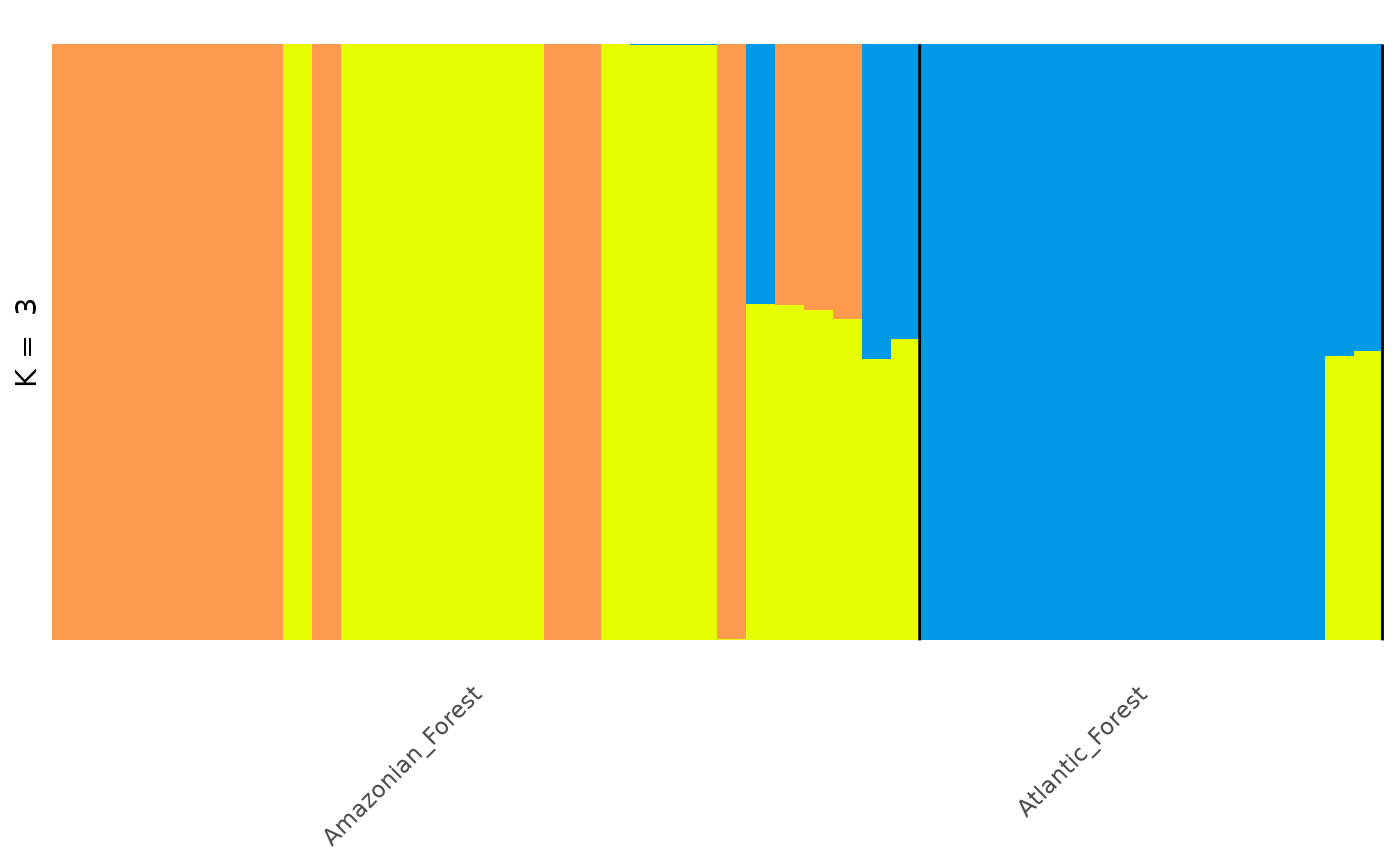
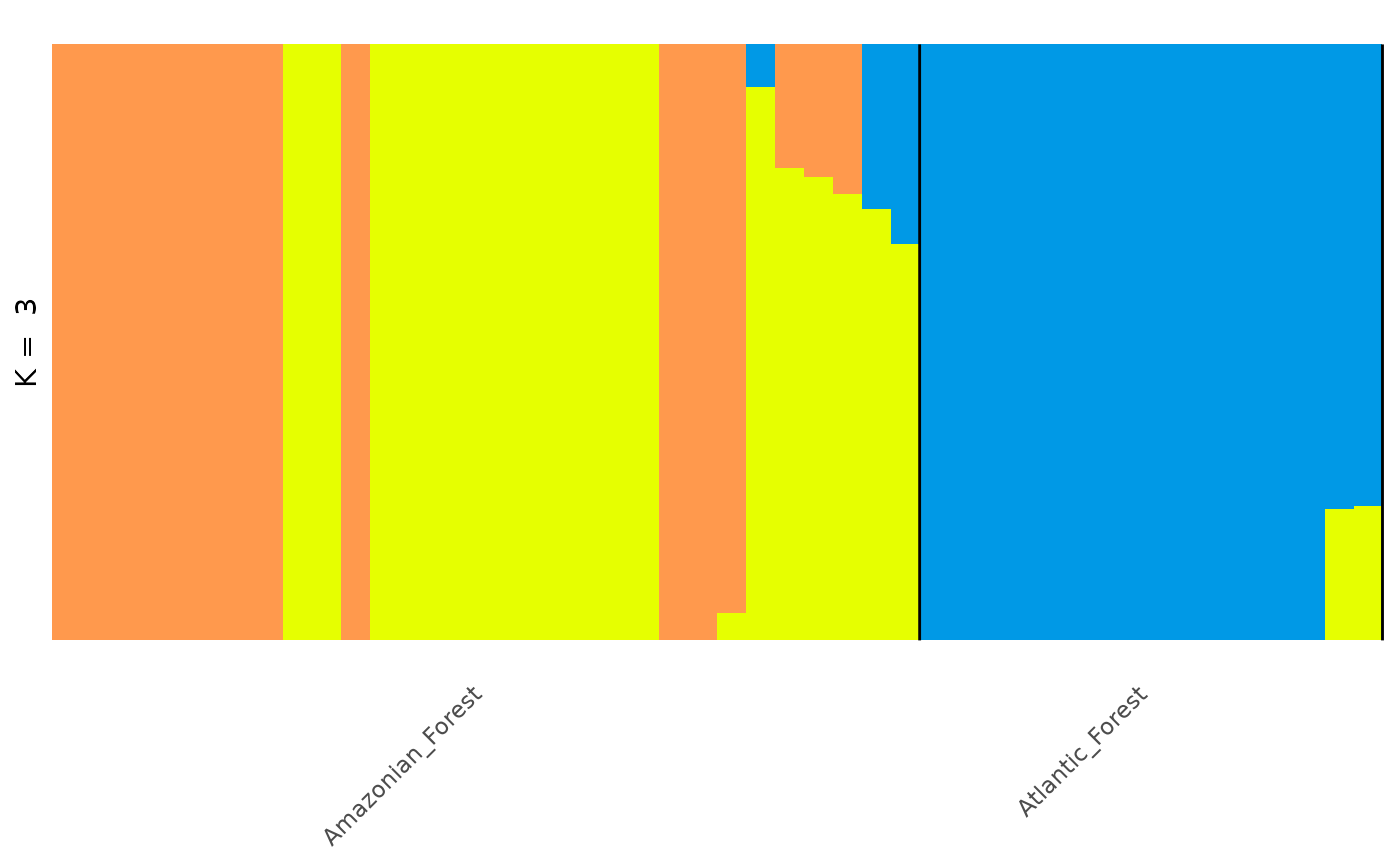
Deploying to gh-pages from @ EvolEcolGroup/tidygenclust@b76e63f80ebc70dfd8091103fc4832bc7fcdc668 🚀

diff --git a/articles/tidygenclust.html b/articles/tidygenclust.html
@@ -32,7 +32,7 @@
       </button>
       <span class="navbar-brand">
         <a class="navbar-link" href="../index.html">tidygenclust</a>
-        <span class="version label label-default" data-toggle="tooltip" data-placement="bottom" title="">0.1.2</span>
+        <span class="version label label-default" data-toggle="tooltip" data-placement="bottom" title="">0.1.3</span>
       </span>
     </div>
 
@@ -274,7 +274,7 @@ specify a value for the number of clusters K.</p>
 <div class="sourceCode" id="cb20"><pre class="downlit sourceCode r">
 <code class="sourceCode R"><span><span class="va">anole_res</span> <span class="op">&lt;-</span> <span class="va">anole_gt</span> <span class="op"><a href="../reference/pipe.html">%&gt;%</a></span> <span class="fu"><a href="../reference/gt_fastmixture.html">gt_fastmixture</a></span><span class="op">(</span>k <span class="op">=</span> <span class="fl">3</span><span class="op">)</span></span></code></pre></div>
 <pre><code><span><span class="co">## -------------------------------------------------</span></span>
-<span><span class="co">## fastmixture v1.2.0</span></span>
+<span><span class="co">## fastmixture v1.3.0</span></span>
 <span><span class="co">## C.G. Santander, A. Refoyo-Martinez and J. Meisner</span></span>
 <span><span class="co">## K=3, seed=42, batches=32, threads=1</span></span>
 <span><span class="co">## -------------------------------------------------</span></span>
@@ -283,30 +283,35 @@ specify a value for the number of clusters K.</p>
 <span><span class="co">## WARNING: Few SNPs per mini-batch!</span></span>
 <span><span class="co">## </span></span>
 <span><span class="co">## Random initialization.</span></span>
-<span><span class="co">## Initial log-like: -220422.9</span></span>
-<span><span class="co">## Performed priming iteration. (0.0s)</span></span>
+<span><span class="co">## Initial log-like: -216353.9</span></span>
+<span><span class="co">## Performed priming iteration. (0.1s)</span></span>
 <span><span class="co">## </span></span>
 <span><span class="co">## Estimating Q and P using mini-batch EM.</span></span>
 <span><span class="co">## Using 32 mini-batches.</span></span>
-<span><span class="co">## (5)  Log-like: -65244.8  (0.0s)</span></span>
-<span><span class="co">## (10) Log-like: -59883.7  (0.0s)</span></span>
-<span><span class="co">## (15) Log-like: -60094.3  (0.0s)</span></span>
+<span><span class="co">## (5)  Log-like: -58478.0  (0.0s)</span></span>
+<span><span class="co">## (10) Log-like: -58453.1  (0.0s)</span></span>
+<span><span class="co">## (15) Log-like: -58478.7  (0.0s)</span></span>
 <span><span class="co">## Halving mini-batches to 16.</span></span>
-<span><span class="co">## (20) Log-like: -59933.9  (0.0s)</span></span>
-<span><span class="co">## (25) Log-like: -59964.4  (0.0s)</span></span>
+<span><span class="co">## (20) Log-like: -58451.5  (0.0s)</span></span>
+<span><span class="co">## (25) Log-like: -58460.2  (0.0s)</span></span>
 <span><span class="co">## Halving mini-batches to 8.</span></span>
-<span><span class="co">## (30) Log-like: -60797.6  (0.0s)</span></span>
-<span><span class="co">## Turning on safety updates.</span></span>
-<span><span class="co">## (35) Log-like: -64272.0  (0.0s)</span></span>
+<span><span class="co">## (30) Log-like: -58443.3  (0.0s)</span></span>
+<span><span class="co">## (35) Log-like: -58438.9  (0.0s)</span></span>
+<span><span class="co">## (40) Log-like: -58448.1  (0.0s)</span></span>
 <span><span class="co">## Halving mini-batches to 4.</span></span>
-<span><span class="co">## (40) Log-like: -63085.8  (0.0s)</span></span>
-<span><span class="co">## (45) Log-like: -64353.6  (0.0s)</span></span>
+<span><span class="co">## (45) Log-like: -58438.1  (0.0s)</span></span>
+<span><span class="co">## (50) Log-like: -58439.1  (0.0s)</span></span>
 <span><span class="co">## Halving mini-batches to 2.</span></span>
-<span><span class="co">## (50) Log-like: -59957.8  (0.0s)</span></span>
-<span><span class="co">## (55) Log-like: -65708.6  (0.0s)</span></span>
+<span><span class="co">## (55) Log-like: -58437.7  (0.0s)</span></span>
+<span><span class="co">## (60) Log-like: -58437.7  (0.0s)</span></span>
 <span><span class="co">## Running standard updates.</span></span>
-<span><span class="co">## No improvement. Returning with best estimate!</span></span>
-<span><span class="co">## Final log-likelihood: -59883.7</span></span>
+<span><span class="co">## (65) Log-like: -58437.6  (0.0s)</span></span>
+<span><span class="co">## (70) Log-like: -58437.6  (0.0s)</span></span>
+<span><span class="co">## (75) Log-like: -58437.6  (0.0s)</span></span>
+<span><span class="co">## (80) Log-like: -58437.6  (0.0s)</span></span>
+<span><span class="co">## Converged!</span></span>
+<span><span class="co">## </span></span>
+<span><span class="co">## Final log-likelihood: -58437.6</span></span>
 <span><span class="co">## Total elapsed time: 0m0s</span></span></code></pre>
 <p>This will <em>very</em> quickly return a single Q matrix, for one
 specified K value. But, most likely we want to explore multiple values
@@ -362,24 +367,24 @@ of K = 4 like so:</p>
 <span>  <span class="fu"><a href="https://evolecolgroup.github.io/tidypopgen/reference/get_q_matrix.html" class="external-link">get_q_matrix</a></span><span class="op">(</span>k <span class="op">=</span> <span class="fl">4</span>, run <span class="op">=</span> <span class="fl">2</span><span class="op">)</span> <span class="op"><a href="../reference/pipe.html">%&gt;%</a></span></span>
 <span>  <span class="fu"><a href="https://rdrr.io/r/utils/head.html" class="external-link">head</a></span><span class="op">(</span><span class="op">)</span></span></code></pre></div>
 <pre><code><span><span class="co">##               .Q1          .Q2          .Q3          .Q4</span></span>
-<span><span class="co">## [1,] 2.115600e-05 2.813873e-05 6.108197e-05 9.998896e-01</span></span>
-<span><span class="co">## [2,] 1.834057e-05 2.645122e-05 5.326335e-05 9.999019e-01</span></span>
-<span><span class="co">## [3,] 5.074471e-01 4.925329e-01 9.999875e-06 9.999875e-06</span></span>
-<span><span class="co">## [4,] 9.999318e-01 4.818752e-05 1.000000e-05 1.000000e-05</span></span>
-<span><span class="co">## [5,] 5.051094e-01 4.948706e-01 9.999879e-06 9.999879e-06</span></span>
-<span><span class="co">## [6,] 1.000000e-05 1.000000e-05 9.999464e-01 3.360893e-05</span></span></code></pre>
+<span><span class="co">## [1,] 9.999949e-06 9.999949e-06 9.999700e-01 9.999949e-06</span></span>
+<span><span class="co">## [2,] 9.999935e-06 9.999935e-06 9.999700e-01 9.999935e-06</span></span>
+<span><span class="co">## [3,] 9.999899e-06 9.999899e-06 9.999899e-06 9.999700e-01</span></span>
+<span><span class="co">## [4,] 9.999855e-06 9.999855e-06 9.999855e-06 9.999700e-01</span></span>
+<span><span class="co">## [5,] 9.999902e-06 9.999902e-06 9.999902e-06 9.999700e-01</span></span>
+<span><span class="co">## [6,] 9.999700e-01 9.999873e-06 9.999873e-06 9.999873e-06</span></span></code></pre>
 <p>Or the P matrix of the first run of K = 3:</p>
 <div class="sourceCode" id="cb27"><pre class="downlit sourceCode r">
 <code class="sourceCode R"><span><span class="va">anole_res</span> <span class="op"><a href="../reference/pipe.html">%&gt;%</a></span></span>
 <span>  <span class="fu"><a href="https://evolecolgroup.github.io/tidypopgen/reference/get_p_matrix.html" class="external-link">get_p_matrix</a></span><span class="op">(</span>k <span class="op">=</span> <span class="fl">3</span>, run <span class="op">=</span> <span class="fl">1</span><span class="op">)</span> <span class="op"><a href="../reference/pipe.html">%&gt;%</a></span></span>
 <span>  <span class="fu"><a href="https://rdrr.io/r/utils/head.html" class="external-link">head</a></span><span class="op">(</span><span class="op">)</span></span></code></pre></div>
 <pre><code><span><span class="co">##           [,1]      [,2]  [,3]</span></span>
-<span><span class="co">## [1,] 0.4134744 0.0000100 1e-05</span></span>
-<span><span class="co">## [2,] 0.1700725 0.8064057 1e-05</span></span>
-<span><span class="co">## [3,] 0.0000100 0.8109002 1e-05</span></span>
-<span><span class="co">## [4,] 0.1812214 0.4957036 1e-05</span></span>
-<span><span class="co">## [5,] 0.3309743 0.0000100 1e-05</span></span>
-<span><span class="co">## [6,] 0.2258939 0.9999900 1e-05</span></span></code></pre>
+<span><span class="co">## [1,] 0.0000100 0.3920911 1e-05</span></span>
+<span><span class="co">## [2,] 0.8353825 0.1677636 1e-05</span></span>
+<span><span class="co">## [3,] 0.8399723 0.0000100 1e-05</span></span>
+<span><span class="co">## [4,] 0.4999375 0.1833640 1e-05</span></span>
+<span><span class="co">## [5,] 0.0000100 0.3321197 1e-05</span></span>
+<span><span class="co">## [6,] 0.9999900 0.2612219 1e-05</span></span></code></pre>
 <p>We can now compare the cross-validation scores for our range of K
 values 2-4, stored in the <code>cv</code> element of our
 <code>gt_admix</code> object, to help identify the most appropriate
@@ -424,16 +429,16 @@ use for the plot:</p>
 <pre><code><span><span class="co">## <span style="color: #949494;"># A tibble: 138 × 4</span></span></span>
 <span><span class="co">##    id         group            q     percentage</span></span>
 <span><span class="co">##    <span style="color: #949494; font-style: italic;">&lt;chr&gt;</span>      <span style="color: #949494; font-style: italic;">&lt;chr&gt;</span>            <span style="color: #949494; font-style: italic;">&lt;chr&gt;</span>      <span style="color: #949494; font-style: italic;">&lt;dbl&gt;</span></span></span>
-<span><span class="co">## <span style="color: #BCBCBC;"> 1</span> punc_BM288 Amazonian_Forest .Q1   1.000     </span></span>
-<span><span class="co">## <span style="color: #BCBCBC;"> 2</span> punc_BM288 Amazonian_Forest .Q2   0.000<span style="text-decoration: underline;">026</span>5 </span></span>
-<span><span class="co">## <span style="color: #BCBCBC;"> 3</span> punc_BM288 Amazonian_Forest .Q3   0.000<span style="text-decoration: underline;">067</span>5 </span></span>
-<span><span class="co">## <span style="color: #BCBCBC;"> 4</span> punc_GN71  Amazonian_Forest .Q1   1.000     </span></span>
-<span><span class="co">## <span style="color: #BCBCBC;"> 5</span> punc_GN71  Amazonian_Forest .Q2   0.000<span style="text-decoration: underline;">023</span>7 </span></span>
-<span><span class="co">## <span style="color: #BCBCBC;"> 6</span> punc_GN71  Amazonian_Forest .Q3   0.000<span style="text-decoration: underline;">058</span>7 </span></span>
-<span><span class="co">## <span style="color: #BCBCBC;"> 7</span> punc_H1907 Amazonian_Forest .Q1   0.000<span style="text-decoration: underline;">023</span>7 </span></span>
-<span><span class="co">## <span style="color: #BCBCBC;"> 8</span> punc_H1907 Amazonian_Forest .Q2   1.000     </span></span>
-<span><span class="co">## <span style="color: #BCBCBC;"> 9</span> punc_H1907 Amazonian_Forest .Q3   0.000<span style="text-decoration: underline;">014</span>4 </span></span>
-<span><span class="co">## <span style="color: #BCBCBC;">10</span> punc_H1911 Amazonian_Forest .Q1   0.000<span style="text-decoration: underline;">010</span>00</span></span>
+<span><span class="co">## <span style="color: #BCBCBC;"> 1</span> punc_BM288 Amazonian_Forest .Q1   0.000<span style="text-decoration: underline;">010</span>00</span></span>
+<span><span class="co">## <span style="color: #BCBCBC;"> 2</span> punc_BM288 Amazonian_Forest .Q2   1.000     </span></span>
+<span><span class="co">## <span style="color: #BCBCBC;"> 3</span> punc_BM288 Amazonian_Forest .Q3   0.000<span style="text-decoration: underline;">010</span>00</span></span>
+<span><span class="co">## <span style="color: #BCBCBC;"> 4</span> punc_GN71  Amazonian_Forest .Q1   0.000<span style="text-decoration: underline;">010</span>00</span></span>
+<span><span class="co">## <span style="color: #BCBCBC;"> 5</span> punc_GN71  Amazonian_Forest .Q2   1.000     </span></span>
+<span><span class="co">## <span style="color: #BCBCBC;"> 6</span> punc_GN71  Amazonian_Forest .Q3   0.000<span style="text-decoration: underline;">010</span>00</span></span>
+<span><span class="co">## <span style="color: #BCBCBC;"> 7</span> punc_H1907 Amazonian_Forest .Q1   1.000     </span></span>
+<span><span class="co">## <span style="color: #BCBCBC;"> 8</span> punc_H1907 Amazonian_Forest .Q2   0.000<span style="text-decoration: underline;">010</span>00</span></span>
+<span><span class="co">## <span style="color: #BCBCBC;"> 9</span> punc_H1907 Amazonian_Forest .Q3   0.000<span style="text-decoration: underline;">010</span>00</span></span>
+<span><span class="co">## <span style="color: #BCBCBC;">10</span> punc_H1911 Amazonian_Forest .Q1   1.000     </span></span>
 <span><span class="co">## <span style="color: #949494;"># ℹ 128 more rows</span></span></span></code></pre>
 <p>In the Prates et al 2018 study, the anolis lizards were found to
 split into three genetic groups, two in the Amazonian forest; the
@@ -658,7 +663,7 @@ scale_fill options. For example:</p>
 
 <div class="pkgdown">
   <p></p>
-<p>Site built with <a href="https://pkgdown.r-lib.org/" class="external-link">pkgdown</a> 2.2.0.</p>
+<p>Site built with <a href="https://pkgdown.r-lib.org/" class="external-link">pkgdown</a> 2.2.1.</p>
 </div>
 
       </footer>

diff --git a/news/index.html b/news/index.html
@@ -17,7 +17,7 @@
       </button>
       <span class="navbar-brand">
         <a class="navbar-link" href="../index.html">tidygenclust</a>
-        <span class="version label label-default" data-toggle="tooltip" data-placement="bottom" title="">0.1.2</span>
+        <span class="version label label-default" data-toggle="tooltip" data-placement="bottom" title="">0.1.3</span>
       </span>
     </div>
 
@@ -45,8 +45,12 @@
     </div>
 
     <div class="section level2">
+<h2 class="page-header" data-toc-text="0.1.3" id="tidygenclust-013">tidygenclust 0.1.3<a class="anchor" aria-label="anchor" href="#tidygenclust-013"></a></h2>
+<ul><li>Fixed <code><a href="../reference/gt_fastmixture.html">gt_fastmixture()</a></code> wrapper for fastmixture 1.3.0: P matrices are now returned in the original locus order, and <code>gen_tibble</code> input is shuffled and normalised as in fastmixture, giving the same results as PLINK input.</li>
+</ul></div>
+    <div class="section level2">
 <h2 class="page-header" data-toc-text="0.1.2" id="tidygenclust-012">tidygenclust 0.1.2<a class="anchor" aria-label="anchor" href="#tidygenclust-012"></a></h2>
-<ul><li>Updated versions of fastmixture</li>
+<ul><li>Updated version of fastmixture to 1.3.0</li>
 <li>Use pre-tested conda environments to avoid dependency hell.</li>
 </ul></div>
     <div class="section level2">
@@ -71,7 +75,7 @@
 </div>
 
 <div class="pkgdown">
-  <p></p><p>Site built with <a href="https://pkgdown.r-lib.org/" class="external-link">pkgdown</a> 2.2.0.</p>
+  <p></p><p>Site built with <a href="https://pkgdown.r-lib.org/" class="external-link">pkgdown</a> 2.2.1.</p>
 </div>
 
       </footer></div>

diff --git a/authors.html b/authors.html
@@ -17,7 +17,7 @@
       </button>
       <span class="navbar-brand">
         <a class="navbar-link" href="index.html">tidygenclust</a>
-        <span class="version label label-default" data-toggle="tooltip" data-placement="bottom" title="">0.1.2</span>
+        <span class="version label label-default" data-toggle="tooltip" data-placement="bottom" title="">0.1.3</span>
       </span>
     </div>
 
@@ -100,13 +100,13 @@
 
     <p>Tysall E, Hovhannisyan A, Carter E, Pozzi A, Padilla-Iglesias C, Leonardi M, Fatima A, Pelanek O, Stephenson N, Colucci M, Manica A (2026).
 <em>tidygenclust: Clustering for Population Genetics in R</em>.
-R package version 0.1.2.
+R package version 0.1.3.
 </p>
     <pre>@Manual{,
   title = {tidygenclust: Clustering for Population Genetics in R},
   author = {Eirlys Tysall and Anahit Hovhannisyan and Evie Carter and Andrea Pozzi and Cecilia Padilla-Iglesias and Michela Leonardi and Aramish Fatima and Ondrej Pelanek and Nile Stephenson and Margherita Colucci and Andrea Manica},
   year = {2026},
-  note = {R package version 0.1.2},
+  note = {R package version 0.1.3},
 }</pre>
 
   </div>
@@ -120,7 +120,7 @@ R package version 0.1.2.
 </div>
 
 <div class="pkgdown">
-  <p></p><p>Site built with <a href="https://pkgdown.r-lib.org/" class="external-link">pkgdown</a> 2.2.0.</p>
+  <p></p><p>Site built with <a href="https://pkgdown.r-lib.org/" class="external-link">pkgdown</a> 2.2.1.</p>
 </div>
 
       </footer></div>

diff --git a/reference/tgc_tools_install.html b/reference/tgc_tools_install.html
@@ -23,7 +23,7 @@ cadmixture86, as it is only available for OSX as x86 in bioconda."><meta propert
       </button>
       <span class="navbar-brand">
         <a class="navbar-link" href="../index.html">tidygenclust</a>
-        <span class="version label label-default" data-toggle="tooltip" data-placement="bottom" title="">0.1.2</span>
+        <span class="version label label-default" data-toggle="tooltip" data-placement="bottom" title="">0.1.3</span>
       </span>
     </div>
 
@@ -141,7 +141,7 @@ using <code>brew</code> in <code>bash</code>, setting the correct paths to use i
 </div>
 
 <div class="pkgdown">
-  <p></p><p>Site built with <a href="https://pkgdown.r-lib.org/" class="external-link">pkgdown</a> 2.2.0.</p>
+  <p></p><p>Site built with <a href="https://pkgdown.r-lib.org/" class="external-link">pkgdown</a> 2.2.1.</p>
 </div>
 
       </footer></div>

diff --git a/reference/tidygenclust-package.html b/reference/tidygenclust-package.html
@@ -18,7 +18,7 @@ A tidy interface to clustering in population genetics. This package provides a s
       </button>
       <span class="navbar-brand">
         <a class="navbar-link" href="../index.html">tidygenclust</a>
-        <span class="version label label-default" data-toggle="tooltip" data-placement="bottom" title="">0.1.2</span>
+        <span class="version label label-default" data-toggle="tooltip" data-placement="bottom" title="">0.1.3</span>
       </span>
     </div>
 
@@ -80,7 +80,7 @@ A tidy interface to clustering in population genetics. This package provides a s
 </div>
 
 <div class="pkgdown">
-  <p></p><p>Site built with <a href="https://pkgdown.r-lib.org/" class="external-link">pkgdown</a> 2.2.0.</p>
+  <p></p><p>Site built with <a href="https://pkgdown.r-lib.org/" class="external-link">pkgdown</a> 2.2.1.</p>
 </div>
 
       </footer></div>

diff --git a/reference/capeverde_pops.html b/reference/capeverde_pops.html
@@ -18,7 +18,7 @@ Cape Verdean. This dataset is used as an example for clumppling."><meta property
       </button>
       <span class="navbar-brand">
         <a class="navbar-link" href="../index.html">tidygenclust</a>
-        <span class="version label label-default" data-toggle="tooltip" data-placement="bottom" title="">0.1.2</span>
+        <span class="version label label-default" data-toggle="tooltip" data-placement="bottom" title="">0.1.3</span>
       </span>
     </div>
 
@@ -72,7 +72,7 @@ Cape Verdean. This dataset is used as an example for clumppling.</p>
 </div>
 
 <div class="pkgdown">
-  <p></p><p>Site built with <a href="https://pkgdown.r-lib.org/" class="external-link">pkgdown</a> 2.2.0.</p>
+  <p></p><p>Site built with <a href="https://pkgdown.r-lib.org/" class="external-link">pkgdown</a> 2.2.1.</p>
 </div>
 
       </footer></div>

diff --git a/reference/gt_fastmixture.html b/reference/gt_fastmixture.html
@@ -20,7 +20,7 @@ that you cite the relevant paper by Santander, Refoyo-Martínez, and Meisner
       </button>
       <span class="navbar-brand">
         <a class="navbar-link" href="../index.html">tidygenclust</a>
-        <span class="version label label-default" data-toggle="tooltip" data-placement="bottom" title="">0.1.2</span>
+        <span class="version label label-default" data-toggle="tooltip" data-placement="bottom" title="">0.1.3</span>
       </span>
     </div>
 
@@ -209,7 +209,7 @@ doi: https://doi.org/10.1101/2024.07.08.602454</p>
 </div>
 
 <div class="pkgdown">
-  <p></p><p>Site built with <a href="https://pkgdown.r-lib.org/" class="external-link">pkgdown</a> 2.2.0.</p>
+  <p></p><p>Site built with <a href="https://pkgdown.r-lib.org/" class="external-link">pkgdown</a> 2.2.1.</p>
 </div>
 
       </footer></div>

diff --git a/reference/subset_gt_clumppling.html b/reference/subset_gt_clumppling.html
@@ -21,7 +21,7 @@ and re-run gt_clumppling."><meta property="og:image" content="/logo.png"><!-- ma
       </button>
       <span class="navbar-brand">
         <a class="navbar-link" href="../index.html">tidygenclust</a>
-        <span class="version label label-default" data-toggle="tooltip" data-placement="bottom" title="">0.1.2</span>
+        <span class="version label label-default" data-toggle="tooltip" data-placement="bottom" title="">0.1.3</span>
       </span>
     </div>
 
@@ -94,7 +94,7 @@ and re-run <code>gt_clumppling</code>.</p>
 </div>
 
 <div class="pkgdown">
-  <p></p><p>Site built with <a href="https://pkgdown.r-lib.org/" class="external-link">pkgdown</a> 2.2.0.</p>
+  <p></p><p>Site built with <a href="https://pkgdown.r-lib.org/" class="external-link">pkgdown</a> 2.2.1.</p>
 </div>
 
       </footer></div>

diff --git a/reference/tgc_tools_version.html b/reference/tgc_tools_version.html
@@ -18,7 +18,7 @@ by tidygenclust"><meta property="og:image" content="/logo.png"><!-- mathjax --><
       </button>
       <span class="navbar-brand">
         <a class="navbar-link" href="../index.html">tidygenclust</a>
-        <span class="version label label-default" data-toggle="tooltip" data-placement="bottom" title="">0.1.2</span>
+        <span class="version label label-default" data-toggle="tooltip" data-placement="bottom" title="">0.1.3</span>
       </span>
     </div>
 
@@ -73,7 +73,7 @@ by <code>tidygenclust</code></p>
 </div>
 
 <div class="pkgdown">
-  <p></p><p>Site built with <a href="https://pkgdown.r-lib.org/" class="external-link">pkgdown</a> 2.2.0.</p>
+  <p></p><p>Site built with <a href="https://pkgdown.r-lib.org/" class="external-link">pkgdown</a> 2.2.1.</p>
 </div>
 
       </footer></div>

diff --git a/reference/autoplot_gt_clumppling.html b/reference/autoplot_gt_clumppling.html
@@ -29,7 +29,7 @@ plots.
       </button>
       <span class="navbar-brand">
         <a class="navbar-link" href="../index.html">tidygenclust</a>
-        <span class="version label label-default" data-toggle="tooltip" data-placement="bottom" title="">0.1.2</span>
+        <span class="version label label-default" data-toggle="tooltip" data-placement="bottom" title="">0.1.3</span>
       </span>
     </div>
 
@@ -134,7 +134,7 @@ argument requires that all individuals from the same group are adjacent.</p>
 </div>
 
 <div class="pkgdown">
-  <p></p><p>Site built with <a href="https://pkgdown.r-lib.org/" class="external-link">pkgdown</a> 2.2.0.</p>
+  <p></p><p>Site built with <a href="https://pkgdown.r-lib.org/" class="external-link">pkgdown</a> 2.2.1.</p>
 </div>
 
       </footer></div>

diff --git a/reference/reexports.html b/reference/reexports.html
@@ -32,7 +32,7 @@ scale_fill_distruct(), theme_distruct()
       </button>
       <span class="navbar-brand">
         <a class="navbar-link" href="../index.html">tidygenclust</a>
-        <span class="version label label-default" data-toggle="tooltip" data-placement="bottom" title="">0.1.2</span>
+        <span class="version label label-default" data-toggle="tooltip" data-placement="bottom" title="">0.1.3</span>
       </span>
     </div>
 
@@ -91,7 +91,7 @@ below to see their documentation.</p>
 </div>
 
 <div class="pkgdown">
-  <p></p><p>Site built with <a href="https://pkgdown.r-lib.org/" class="external-link">pkgdown</a> 2.2.0.</p>
+  <p></p><p>Site built with <a href="https://pkgdown.r-lib.org/" class="external-link">pkgdown</a> 2.2.1.</p>
 </div>
 
       </footer></div>

diff --git a/reference/tidy_gt_clumppling.html b/reference/tidy_gt_clumppling.html
@@ -28,7 +28,7 @@ major modes.
       </button>
       <span class="navbar-brand">
         <a class="navbar-link" href="../index.html">tidygenclust</a>
-        <span class="version label label-default" data-toggle="tooltip" data-placement="bottom" title="">0.1.2</span>
+        <span class="version label label-default" data-toggle="tooltip" data-placement="bottom" title="">0.1.3</span>
       </span>
     </div>
 
@@ -113,7 +113,7 @@ only.</p></dd>
 </div>
 
 <div class="pkgdown">
-  <p></p><p>Site built with <a href="https://pkgdown.r-lib.org/" class="external-link">pkgdown</a> 2.2.0.</p>
+  <p></p><p>Site built with <a href="https://pkgdown.r-lib.org/" class="external-link">pkgdown</a> 2.2.1.</p>
 </div>
 
       </footer></div>
